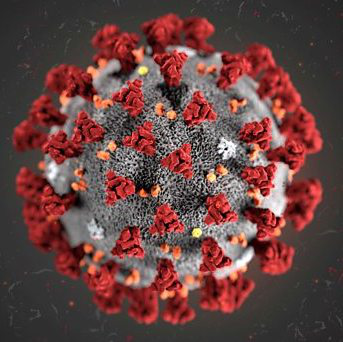
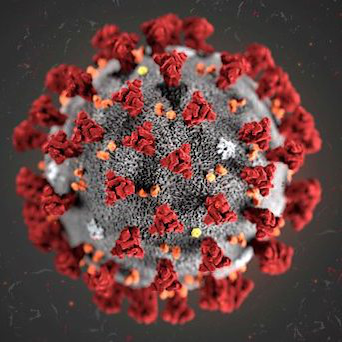
v1.01

diff --git a/screens/WorldViewScreen.js b/screens/WorldViewScreen.js
@@ -63,12 +63,7 @@ export default class WorldViewScreen extends React.Component {
         <ScrollView style={styles.container} contentContainerStyle={styles.contentContainer}>
           <View style={styles.welcomeContainer}>
             <Image
-              source={
-                {uri: 'https://corona.rickkln.com/static/36a619931c32e2167fbaf50f9806310b/e43a9/coronavirus.png'}
-                // __DEV__
-                //   ? require('../assets/images/robot-dev.png')
-                //   : require('../assets/images/robot-prod.png')
-              }
+              source={require('../assets/images/coronavirus.png')}
               style={styles.welcomeImage}
             />
           </View>
